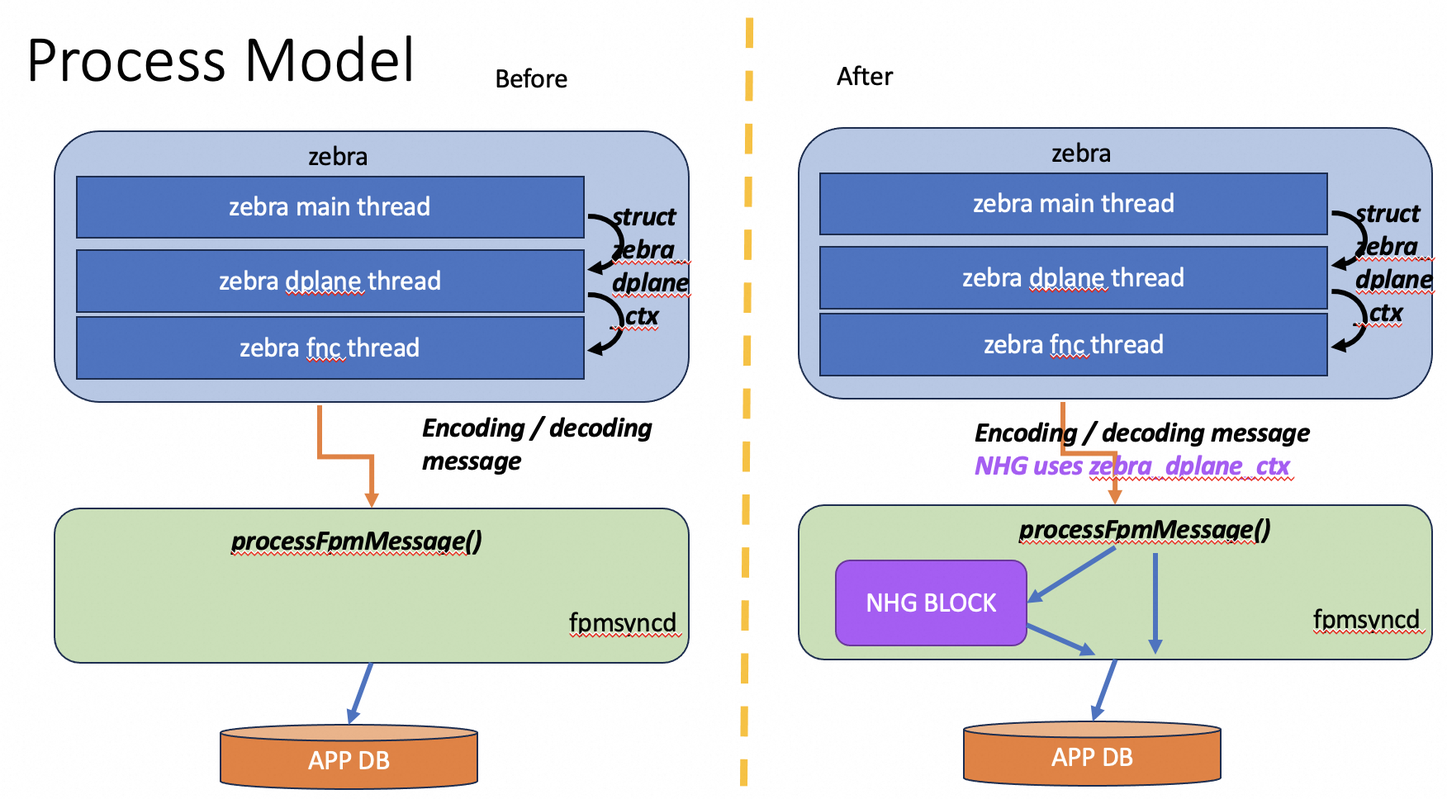
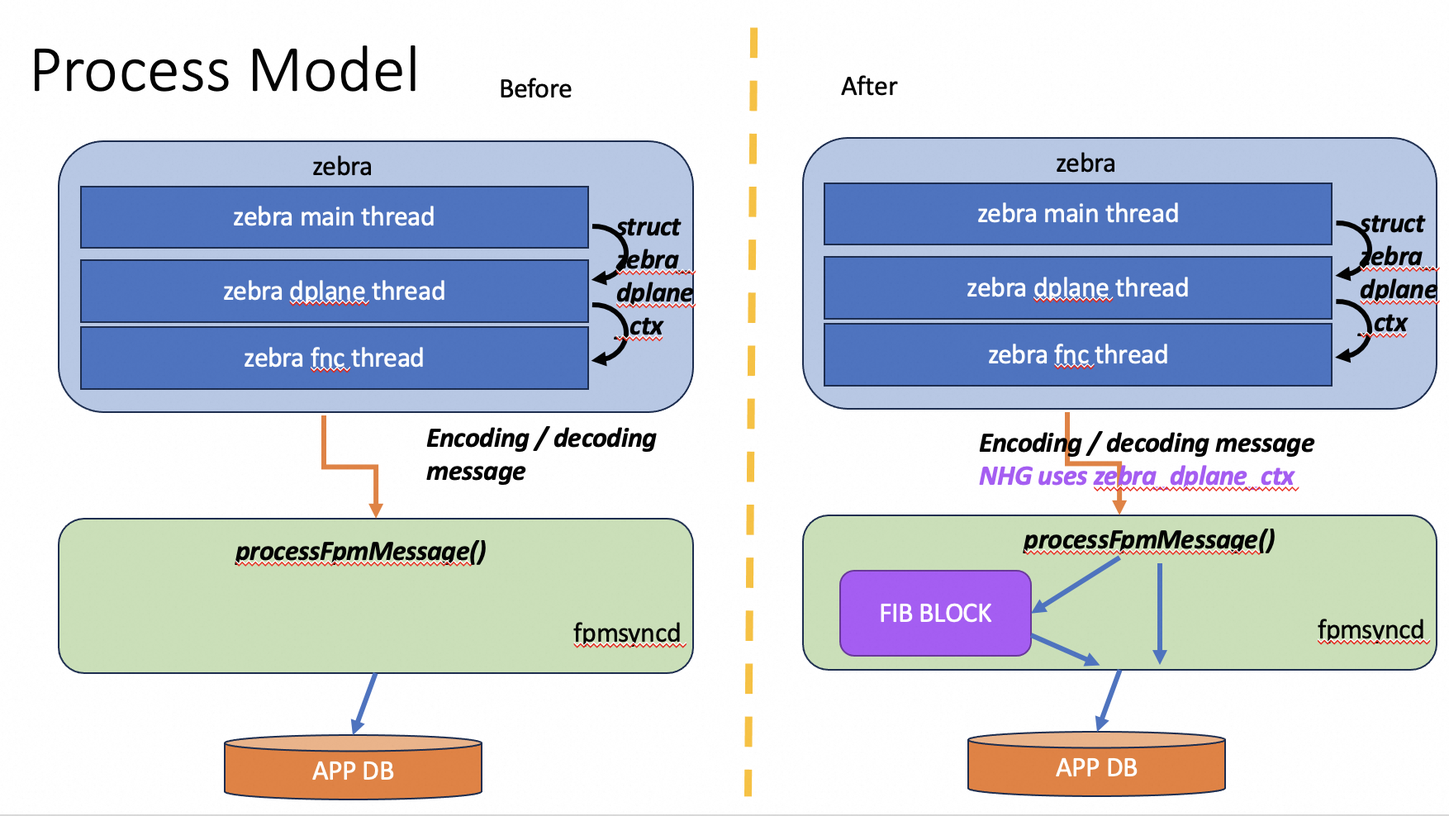
Update ribfib HLD based on comments

diff --git a/doc/ribfib/ribfib.md b/doc/ribfib/ribfib.md
@@ -3,43 +3,48 @@
 # Table of Contents <!-- omit in toc -->
 - [Revision](#revision)
 - [Definition/Abbreviation](#definitionabbreviation)
-    - [Table 1: Abbreviations](#table-1-abbreviations)
 - [Problem Statements](#problem-statements)
   - [Summary of Problems to be solved](#summary-of-problems-to-be-solved)
     - [Enable NHG ID handling for improving route convergence](#enable-nhg-id-handling-for-improving-route-convergence)
     - [Introduce PIC (Prefix independent Convergence) for improving route convergence](#introduce-pic-prefix-independent-convergence-for-improving-route-convergence)
     - [Handling SRv6 VPN forwarding chain different from Linux](#handling-srv6-vpn-forwarding-chain-different-from-linux)
+  - [Current Thoughts](#current-thoughts)
+  - [Topics not in the scope](#topics-not-in-the-scope)
 - [Introduction of RIB / FIB in SONiC](#introduction-of-rib--fib-in-sonic)
+  - [new FIB's functionalities](#new-fibs-functionalities)
   - [FIB's location](#fibs-location)
 - [FIB High Level Design](#fib-high-level-design)
+  - [A global knob to enable/disable FIB](#a-global-knob-to-enabledisable-fib)
   - [Process Model](#process-model)
-  - [NHG Block](#nhg-block)
-    - [Tables in NHG Block](#tables-in-nhg-block)
+  - [FIB Block](#fib-block)
+    - [Tables in FIB Block](#tables-in-fib-block)
     - [SONiC zebra NHG table](#sonic-zebra-nhg-table)
       - [NEXTHOP KEY to Zebra NHG ID mapping](#nexthop-key-to-zebra-nhg-id-mapping)
     - [SONiC NHG table](#sonic-nhg-table)
-      - [NEXTHOP-\>SONIC NHG ID  table](#nexthop-sonic-nhg-id-table)
+      - [NEXTHOP-\>SONIC NHG ID table](#nexthop-sonic-nhg-idtable)
     - [SONIC NHG ID Manager](#sonic-nhg-id-manager)
   - [NHG forwarding chain graph](#nhg-forwarding-chain-graph)
-  - [Resolved NHG and Unresolved NHG](#resolved-nhg-and-unresolved-nhg)
+  - [Resolved NHG and Original NHG](#resolved-nhg-and-original-nhg)
   - [Route handling](#route-handling)
 - [FIB work flows](#fib-work-flows)
   - [Handle Global table routing information](#handle-global-table-routing-information)
   - [Handle SRv6 VPN routing information](#handle-srv6-vpn-routing-information)
-- [Route Congernce Handling](#route-congernce-handling)
+- [Route Convergence Handling](#route-convergence-handling)
+  - [Resolve through and Resolve via](#resolve-through-and-resolve-via)
   - [NHT Trigger](#nht-trigger)
   - [Backwalk infra](#backwalk-infra)
-  - [Walk Context](#walk-context)
-  - [Walk Procedure](#walk-procedure)
-  - [Example of backwalk](#example-of-backwalk)
-    - [Backwalk Step 1](#backwalk-step-1)
-    - [Backwalk Step 2](#backwalk-step-2)
+    - [Walk Context](#walk-context)
+    - [Walk Procedure](#walk-procedure)
+    - [Example of backwalk](#example-of-backwalk)
+      - [Backwalk Step 1](#backwalk-step-1)
+      - [Backwalk Step 2](#backwalk-step-2)
 - [CLI](#cli)
 - [Developing Tasks and Milestones](#developing-tasks-and-milestones)
   - [Tasks in FRR](#tasks-in-frr)
   - [Tasks in SONiC](#tasks-in-sonic)
   - [Testing Strategy](#testing-strategy)
   - [Developing Milestones](#developing-milestones)
+
 
 # Revision
 
@@ -49,12 +54,14 @@
 
 # Definition/Abbreviation
 
-### Table 1: Abbreviations
-
 | ****Term**** | ****Meaning**** |
 | -------- | ----------------------------------------- |
 | RIB | Routing Information Base  |
 | FIB | Forwarding Information Base  |
+| Resolved NHG | NHG resolved by Zebra, a.k.a containing nexthops with final outgoing interfaces and nexthop addresses  |
+| Original NHG | NHG information received by Zebra from protocol clients  |
+| resolve through | |
+| resolve via | |
 
 # Problem Statements
 With the increasing deployment of SONiC-based white-box devices, the demand for new features has grown significantly. This evolution has introduced the need for a RIB/FIB design within SONiC, which is driven by the following two factors.
@@ -66,9 +73,10 @@ The second factor relates to use cases such as SRv6 VPN, where the forwarding ch
 ## Summary of Problems to be solved
 
 ### Enable NHG ID handling for improving route convergence
-NTT's NHGID HLD could be found at  https://github.com/sonic-net/SONiC/blob/master/doc/pic/hld_fpmsyncd.md. The discussion meeting minutes could be found from 1107 meeting minutes https://lists.sonicfoundation.dev/g/sonic-wg-routing/wiki/38030 NHG enhancements.
+NTT's NHGID HLD could be found at  https://github.com/sonic-net/SONiC/blob/master/doc/pic/hld_fpmsyncd.md. The discussion meeting minutes could be found from 1107 meeting minutes https://lists.sonicfoundation.dev/g/sonic-wg-routing/wiki/38030 NHG enhancements. The goal is to enable NHG ID handling for improving route convergence. Current SONiC implementation could only support hard convergence. Both NTT and Broadcom have made some changes towards this goal. Current only one problem left to complete this enhancement is to see how to persist zebra NHG ID mapping to SONiC NHG ID mapping.
 
-Current challenge to complete this work is in how to persist zebra NHG ID mapping to SONiC NHG ID mapping. This topic has been discussed multiple times in routing working group. Here are a list of meeting minutes related to this topic.
+This topic has been discussed multiple times in routing working group. Here are a list of meeting minutes related to this topic.
+
 * 03/07 https://lists.sonicfoundation.dev/g/sonic-wg-routing/wiki/36235 NHD_ID handling approach during warm reboot.
 * 03/14 https://lists.sonicfoundation.dev/g/sonic-wg-routing/wiki/36288 NHD_ID handling approach during warm reboot.
 * 01/16 https://lists.sonicfoundation.dev/g/sonic-wg-routing/wiki/38418 NHG ID persistence discussion for warm reboot.
@@ -77,7 +85,10 @@ Current challenge to complete this work is in how to persist zebra NHG ID mappin
 * 02/27 https://lists.sonicfoundation.dev/g/sonic-wg-routing/wiki/38722 Finalize NHG ID handling in warm reboot. Bug scrub.
 * 03/20  https://lists.sonicfoundation.dev/g/sonic-wg-routing/wiki/39064 NHG ID handling for warm reboot, Broadcom and Alibaba
 
-The current conclusion is to manage the persistence of this mapping table within fpmsyncd, so that unnecessary route events do not trigger redundant hardware programming.
+The current conclusiond from working group discussions are
+* We can't retreat the same NHG ID table from Linux kernel, which leads Zebra can't recover zebra NHG ID mapping table duringwarm reboot.
+* FRR team doesn't want to add addtional complexity to handle it since it is a data plane requirement.
+* We conclude to manage the persistence of this mapping table within fpmsyncd, so that we could avoid unnecessary route events trigger redundant hardware programming.
 
 
 ### Introduce PIC (Prefix independent Convergence) for improving route convergence
@@ -85,50 +96,80 @@ The PIC architecture document could be found at https://github.com/sonic-net/SON
 * 01/18 meeting minutes https://lists.sonicfoundation.dev/g/sonic-wg-routing/wiki/35760 PIC plan is included.
 * BGP PIC HLD could be found at https://github.com/sonic-net/SONiC/pull/1493.
 
-The FRR changes were initially merged via https://github.com/FRRouting/frr/pull/16879, but later reverted due to differing opinions among FRR maintainers. This rollback prompted the need for this HLD. The current challenge is determining how to maintain the PIC forwarding chain.
+The FRR changes were initially merged via https://github.com/FRRouting/frr/pull/16879, but later reverted due to differing opinions among FRR maintainers. The concern from FRR team is that Zebra’s complexity is growing unmanageable.
 
 ### Handling SRv6 VPN forwarding chain different from Linux
-This issue was discussed in routing working group. The meeting minutes could be found at
-* 0522 https://lists.sonicfoundation.dev/g/sonic-wg-routing/wiki/39744 Yuqing from Alibaba discussed the design to handle two different NHG requirements to dplane
+This issue was discussed in the SONiC Routing Working Group. Meeting notes from the May 22 session are available here  https://lists.sonicfoundation.dev/g/sonic-wg-routing/wiki/39744. Yuqing from Alibaba presented a design proposal to address the need for handling two distinct Next Hop Group (NHG) requirements for diferent data plane.
 
-The challenge is how to handle forwarding chain differently among different data planes.
+The following diagram illustrates the differences in the forwarding chains between Linux and SONiC.
+![image](images/different_chains.png)
 
-To address these two main issues and provide future flexibility in managing forwarding chains within SONiC, we propose introducing the RIB/FIB concept.
+Previously, FRR assumed that the Linux forwarding chain would be identical to SONiC’s, and thus provided the same forwarding information to both data planes. However, with SRv6 VPN use cases revealing divergent forwarding behaviors between Linux and SONiC, FRR now faces added complexity in supporting different forwarding chain model for different data planes.
+
+## Current Thoughts
+To resolve these issues and enable greater flexibility for managing SONiC specific forwarding chains going forward, after consultating with the FRR team, we have agreed on a “divide and conquer” approach, separating the Routing Information Base (RIB) and Forwarding Information Base (FIB).
+
+## Topics not in the scope
+The following topics fall outside the scope of this document:
+
+1. The current implementation of fpmsyncd is tightly coupled with FRR, and no design considerations have been made to support alternative integration approaches.
+2. There are no plans to modify the existing SONiC process model.
 
 # Introduction of RIB / FIB in SONiC
 The Routing Information Base (RIB) manages routing information, while the Forwarding Information Base (FIB) translates that information into forwarding entries used by the data plane.
 
 In the current SONiC architecture, the forwarding chain is relatively simple, aligning directly with both the Linux kernel and SONiC’s forwarding chains. As a result, there is no explicit FIB component. Instead, FRR Zebra acts as both the RIB and an implicit FIB. Routing information is converted into SONiC objects within the Zebra thread, while fpmsyncd merely writes these objects into the APPDB.
 
-This model becomes insufficient in more complex scenarios such as SRv6 VPN, where the Linux kernel and SONiC handle forwarding differently. The Linux kernel collapses all forwarding information into a single object, similar to MPLS VPN, optimizing data plane performance. SONiC, however, follows a VXLAN EVPN-like model by introducing a tunnel nexthop, whose resolution occurs at the SDK level.
+This model becomes insufficient in more complex scenarios such as SRv6 VPN, where the Linux kernel and SONiC handle forwarding differently. The Linux kernel collapses all forwarding information into a single object, similar to MPLS VPN case, optimizing for data plane performance. SONiC, however, follows a VXLAN EVPN-like model by introducing a tunnel nexthop. The tunnel nexthop resolution occurs at the SDK level.
 
 The introduction of PIC (Prefix Independent Convergence) further complicates matters, requiring forwarding chains that may differ from routing chains. The FRR community reverted PR #16879 due to concerns that adding this complexity to Zebra would make it harder to serve different data planes.
 
 Given these challenges, the FRR community recommends redefining Zebra to function solely as the RIB, delegating FIB management to each data plane. This allows forwarding chains to be derived and optimized according to the specific requirements of each data plane implementation.
 
-## FIB's location
-The FIB functionality in SONiC can be introduced at two possible points: before APPDB, within fpmsyncd, or after APPDB, within orchagent. Following discussions in the Routing Working Group, the current consensus is to implement FIB functionality in fpmsyncd.
+## new FIB's functionalities
+The new FIB's primary functionalities are:
 
-This approach provides several advantages:
+1. Structuring FIB entries to align with SONiC’s data plane requirements, which are defined by the SAI (Switch Abstraction Interface).
+2. Organizing FIB entries with a focus on efficient route convergence handling.
+
+## FIB's location
+The FIB functionality in SONiC can be introduced at two possible points:
+1. Before APPDB, within fpmsyncd, or
+2. After APPDB, within orchagent.
+
+There are couple rounds disucssions in the Routing Working Group, the current consensus is to implement FIB functionality in fpmsyncd for the following advantages:
 
 * Minimized hardware updates – unnecessary hardware programming can be avoided.
 * Improved performance – eliminates redundant APPDB writes that could otherwise degrade system performance.
 * Consistency of APPDB objects – APPDB continues to store SONiC objects, preserving the current architectural behavior.
 
 # FIB High Level Design
-## Process Model
-Currently, Zebra leverages struct zebra_dplane_ctx to transfer information from the main thread to the FNC thread. The FNC thread then converts Zebra information into SONiC object representations and forwards them to fpmsyncd.
+## A global knob to enable/disable FIB
+Since it is a new design, we need to introduce a global knob to enable/disable FIB. This knob would only be used at device initialization time and not be allowed to modify at run time.
 
+## Process Model
+The following diagram shows the process model between curernt SONiC approach and new FIB approach. FIB block would be added to implement FIB functionalities.
 ![image](images/process_model.png)
 
-Going forward, NHG-related events will be updated so that struct zebra_dplane_ctx is passed directly to fpmsyncd, while the handling of other Zebra object events remains unchanged. Upon receiving such a message, fpmsyncd will invoke functions from the NHG module to translate struct zebra_dplane_ctx into the corresponding SONiC objects. Processing for all other events will continue to follow the existing workflow.
+In current approach, Zebra uses struct zebra_dplane_ctx to transfer information from the main thread to the FNC thread. The FNC thread then converts Zebra information into SONiC object representations and forwards them to fpmsyncd. The following diagram shows information sending from zebra to fpmsyncd. These fields are marked in yellow color.
+![image](images/old_message.png)
 
-In general, the FIB is responsible for handling both NHG and route events. However, since SONiC’s slow path relies on the Linux kernel and does not process route information in fpmsyncd, the SONiC FIB primarily handles NHG events. The code in fpmsyncd responsible for processing Zebra NHG events is referred to as the NHG block.
+Going forward, NHG-related events will be updated so that struct zebra_dplane_ctx is passed directly to fpmsyncd, while the handling of other Zebra object events remains unchanged. The following diagram shows new information sending from zebra to fpmsyncd. These fields are marked in green color.
 
-## NHG Block
-![image](images/NHG_block.png)
+![image](images/new_message.png)
 
-### Tables in NHG Block
+Upon receiving such messages, fpmsyncd will invoke functions from the FIB block to translate struct zebra_dplane_ctx into the corresponding SONiC objects. Processing for all other events will continue to follow the existing workflow.
+
+
+The following diagram shows NHG information stored in fpmsyncd between current approach and new FIB approach.
+![image](images/nhg_comparison.png)
+
+In general, the FIB is responsible for handling both NHG and route events. However, since SONiC’s slow path relies on the Linux kernel and does not process route information in fpmsyncd, the SONiC FIB block primarily handles NHG events. The code in fpmsyncd responsible for processing Zebra NHG events is referred to as the FIB block.
+
+## FIB Block
+![image](images/FIB_block.png)
+
+### Tables in FIB Block
 | Table Names  |   Descriptions    |           Usages           |
 | :-- | :------- | :------------------------ |
 | SONiC zebra NHG table | Map zebra NHG id to received zebra_dplane_ctx + SONIC Context (a.k.a SONIC ZEBRA NHG) | Rely on “dependency” information in zebra_dplane_ctx to build walking chain.|
@@ -137,7 +178,7 @@ In general, the FIB is responsible for handling both NHG and route events. Howev
 | NEXTHOP->SONIC NHG ID  table | NEXTHOP Address to SONiC NHG ID list mapping | Used to trigger back walk for PIC edge. |
 
 ### SONiC zebra NHG table
-The following three NHG events will be handled within the NHG block:
+The following three NHG events will be handled within the FIB block:
 
 * DPLANE_OP_NH_INSTALL
 * DPLANE_OP_NH_UPDATE
@@ -161,7 +202,7 @@ In certain scenarios, it is necessary to create a new SONIC Next Hop Group (NHG)
 
 For the SRv6 VPN use case, NHG messages from Zebra carry not only forwarding information but also additional context, such as the VPN SID or a policy SID list. To handle this, SONiC will create a gateway NHG that contains the forwarding information only. This gateway NHG is also referred to as the PIC NHG. The accompanying context information will be used to construct a PIC Context object in SONiC.
 
-#### NEXTHOP->SONIC NHG ID  table
+#### NEXTHOP->SONIC NHG ID table
 It serves as a helper table for quickly referencing SONiC NHG entries within the SONiC NHG Table.
 
 ### SONIC NHG ID Manager
@@ -229,22 +270,23 @@ Once the resolve-through and resolve-via information is available, the SONiC for
 
 Note that we use dotted lines to represent dependencies because we plan to use ID lookups to identify dependent NHGs rather than pointers. This approach makes the code more robust.
 
-## Resolved NHG and Unresolved NHG
-Unresolved NHG is also known as original NHG. FRR team plans to keep these NHG to provide information coming from protocol clients. In most cases, we use resolved NHG in SONiC. But in SRv6 VPN case, we use unresolved NHG due to SONiC expects tunnel NH to be provided, a.k.a unresolved NHG here.
+## Resolved NHG and Original NHG
+FRR team plans to use original NHG to provide information coming from protocol clients. In most cases, we use resolved NHG in SONiC. But in SRv6 VPN case, we use original NHG due to SONiC expects tunnel NH to be provided, a.k.a original NHG here.
 
 * Global Table case:
     * zebra resolved NHG (flatting one) : SONiC NHG
-    * Zebra unresolved NHG  (original one): not in use
+    * Zebra original NHG  (original one): not in use
 * VXLAN case
     * zebra resolved NHG (flatting one) :  SONiC NHG, (terminating at tunnel interfaces)
-    * Zebra unresolved NHG  (original one): not in use
+    * Zebra original NHG  (original one): not in use
 * SRv6 VPN case
     * Zebra resolved NHG (flatting one) : not in use
-    * Zebra unresolved NHG (original one, terminating at tunnel interface):
+    * Zebra original NHG (original one, terminating at tunnel interface):
         * SONiC PIC CONTEXT OBJ
         * Create gateway NHG in SONiC as PIC NHG for forwarding.
 
-![image](images/unresolved_nhg.png)
+The following diagram shows how the original NHG is mapped to SONiC gateway NHG for SRv6 VPN case.
+![image](images/original_nhg.png)
 
 ## Route handling
 For each route event, we need to use SONiC zebra NHG table to convert zebra NHG ID to SONiC NHG ID.
@@ -257,9 +299,9 @@ Assume  100.0.0.0/24 via 1.1.1.1 and 200.0.0.0/24 via 1.1.1.1. 1.1.1.1/32 via fi
 ![image](images/global_table.png)
 The green section represents the configurations described above.
 
-The grey section shows the Zebra forwarding chain within the RIB. Each prefix points to the unresolved NHG 200, which contains 1.1.1.1 learned from a protocol client. It also points to a resolved NHG, where 1.1.1.1 is marked as a recursive nexthop resolved via 2.2.2.2, 3.3.3.3, and 4.4.4.4.
+The grey section shows the Zebra forwarding chain within the RIB. Each prefix points to the original NHG 200, which contains 1.1.1.1 learned from a protocol client. It also points to a resolved NHG, where 1.1.1.1 is marked as a recursive nexthop resolved via 2.2.2.2, 3.3.3.3, and 4.4.4.4.
 
-The blue section illustrates the SONiC chain created by the FIB (fpmsyncd) based on information received from the RIB. When NHG 100 is received from Zebra, fpmsyncd creates SONiC NHG 400, which contains the three final nexthops 2.2.2.2, 3.3.3.3, and 4.4.4.4. The NHG 200 event is ignored because unresolved NHGs are not used in the global table.
+The blue section illustrates the SONiC chain created by the FIB (fpmsyncd) based on information received from the RIB. When NHG 100 is received from Zebra, fpmsyncd creates SONiC NHG 400, which contains the three final nexthops 2.2.2.2, 3.3.3.3, and 4.4.4.4. The NHG 200 event is ignored because original NHGs are not used in the global table.
 
 When handling the routes 100.0.0.0/24 and 200.0.0.0/24, fpmsyncd maps the Zebra NHG ID 100 to SONiC NHG ID 400 using the SONiC Zebra NHG table. As a result, orchagent only sees SONiC NHG ID 400.
 
@@ -270,13 +312,16 @@ Similar to the above example, except we use v6 address as next hop. Assume vrf f
 
 ![image](images/Srv6_vpn.png)
 
-Similar to the previous example, the green section represents the logical configuration, while the grey section shows the RIB chain. In the SRv6 VPN case, the unresolved NHG 200 is used to create a PIC NHG 400 with 1::1 as the nexthop. A PIC CONTEXT object is also created for VPN SID A. The unresolved NHG 400 then references PIC NHG 400 and creates an additional PIC CONTEXT object for VPN SID B.
+Similar to the previous example, the green section represents the logical configuration, while the grey section shows the RIB chain. In the SRv6 VPN case, the original NHG 200 is used to create a PIC NHG 400 with 1::1 as the nexthop. A PIC CONTEXT object is also created for VPN SID A. The original NHG 400 then references PIC NHG 400 and creates an additional PIC CONTEXT object for VPN SID B.
 
-# Route Congernce Handling
+# Route Convergence Handling
 A key objective of introducing the RIB/FIB model is to enhance route convergence. The design principle is to perform rapid updates on affected NHGs by removing failed paths based on existing NHG information. This mechanism mitigates traffic loss and provides sufficient time for routing protocols to complete reconvergence.
 
+## Resolve through and Resolve via
+We use "**Resolve through** and **Resolve via** to describe the dependency between NHGs. A NHG "A" is resolved through another NHG "B" if the NHG "A" contains a next-hop that is resolved via another NHG "B". NHG "A" is in NHG "B"'s resolve through list. NHG "B" is in NHG "A"'s resolve via list. We use this NHG dependency graph during convergence handling's forward walk and backwalk.
+
 ## NHT Trigger
-The Nexthop Tracker (NHT) is created by Zebra upon receiving information from a protocol client. At present, it only notifies registered protocol clients when a nexthop becomes unreachable. Following discussions with the FRR community, we propose extending NHT to inform the data plane on this event, enabling SONiC to perform rapid fixups that prevent traffic loss.
+The Nexthop Tracker (NHT) is created by Zebra upon receiving information from a protocol client. At present, it only notifies registered protocol clients when a nexthop becomes unreachable. Following discussions with the FRR community, we propose extending NHT to inform the data plane on this event, enabling SONiC to perform rapid fixups that prevent traffic loss. The following display is an example of the NHT display.
 
 ```
 PE3# show ipv6 nht
@@ -300,16 +345,22 @@ The following information would be sent to SONiC via dplane
 * Nexthop address : used in walk spec or for SONiC NHG table walk, a.k.a PIC edge case.
 * Its current resolved NHG ID : this NHG id is used to trigger backwalk update , a.k.a PIC core case.
 
+For example, when the route to 2064:100::1d is withdrawn, the nexthop address 2064:100::1d and its currently resolved Next Hop Group (NHG) ID 243 are sent to SONiC. To minimize traffic disruption, we must quickly update all NHGs that depend on NHG 243 for the specific nexthop 2064:100::1d. In the example above, this means updating NHG 260 and NHG 264, both of which resolve through NHG 243 for 2064:100::1d which needs to be updated during NHT event handling. However, NHG 265 does not rely on 2064:100::1d, so it does not require an update.
+
+This requirement introduces two new concepts: “forward walk” and “backwalk.”
+* A forward walk traverses from one NHG to another based on the “resolved via” relationship. From graph point of view, this is a simple traversal towards child nodes.
+* A backwalk traverses from one NHG to another based on the “resolved through” relationship. From graph point of view, this is a simple traversal toward parent nodes.
+
 ## Backwalk infra
-Upon receiving an NHT trigger, the NHG block initiates a backwalk to update the affected NHGs, applying quick fixups based on current NHG information to minimize traffic loss. FRR will subsequently recalculate the routes and apply the appropriate updates, but the immediate fixups help prevent traffic disruption.
+Upon receiving an NHT trigger, the FIB block initiates a backwalk to update the affected NHGs, applying quick fixups based on current NHG information to minimize traffic loss. FRR will subsequently recalculate the routes and apply the appropriate updates, but the immediate fixups help prevent traffic disruption.
 
 The purpose of the backwalk infrastructure is to provide a generalized mechanism for traversing the NHG database and applying the necessary actions to targeted NHGs.
 
-## Walk Context
-* Walk spec: indicate what we need to do at a given node. Example: Walk from zebra NHG ID 243, update NHGs contains or recursively contains 2064:100::1d as next hop. A forward walk would be used to collect remaining paths from its children.
+### Walk Context
+* Walk spec: indicate what we need to do at a given node. Example: Walk from zebra NHG ID 243, update NHGs contains or recursively contains 2064:100::1d as a next hop. A forward walk would be used to collect remaining paths from its children.
 * Prune spec : indicate if we need to stop the walk at a given node. Example: Stop further walk after gateway NHGs are updated.
 
-## Walk Procedure
+### Walk Procedure
 * Step1: Start from a given zebra NHG ID inSONiC zebra NHG chain, trigger backwalk via its ”dependents list”
     * When visiting each NHG node, use walk spec to determine if we need to update this node and use prune spec to decide if we need to stop further walk.
     * PIC core is handled in this walk.
@@ -317,13 +368,13 @@ The purpose of the backwalk infrastructure is to provide a generalized mechanism
     * PIC edge is handled in this walk.
     * Gateway NHG is a bridge between global table NHGs and the NHGs with contexts.
 
-## Example of backwalk
+### Example of backwalk
 Assume we use the example described before. Once 2064:100::1d's reachability is gone, NHT would inform dplane with 2064:100::1d as impacted nexthop and NHG 243 is resolved NHG for impacted nexthop. Once fpmsyncd receives this information, it would set walk context as the following
 
 * Walk spec : Walk from zebra NHG ID 243, update NHGs contains 2064:100::1d as nexthop
 * Prune spec  : Stop further walk after gateway NHGs are updated for SRv6 use cases.
 
-### Backwalk Step 1
+#### Backwalk Step 1
 Once fpmsyncd starts to trigger a backwalk with above walk context.
 ![image](images/backwalk_1.png)
 The process works as follows:
@@ -336,7 +387,7 @@ The process works as follows:
 
 PIC core cases would be handled in this walk.
 
-### Backwalk Step 2
+#### Backwalk Step 2
 Fpmsyncd uses 2064:100::1d to trigger a lookup in NEXTHOP to SONIG NHG ID hash table. This lookup returns a list of SONiC NHGs which contains 2064:100::1d as its nexthop.
 
 ![image](images/backwalk_2.png)
@@ -353,7 +404,7 @@ TODO: what is the better approach here? Extend vtysh? or create a new one?
 # Developing Tasks and Milestones
 ## Tasks in FRR
 Phase 1: The goal is to enable FIB basic functionalities
-* Add unresolved NHG in zebra_dplane_ctx (For requirement 2)
+* Add original NHG in zebra_dplane_ctx (For requirement 2)
 * Add “resolve through and resolve via” in zebra_dplane_ctx (For requirement 3)
 * Add NHT trigger to dplane ctx (For requirement 3)
 
